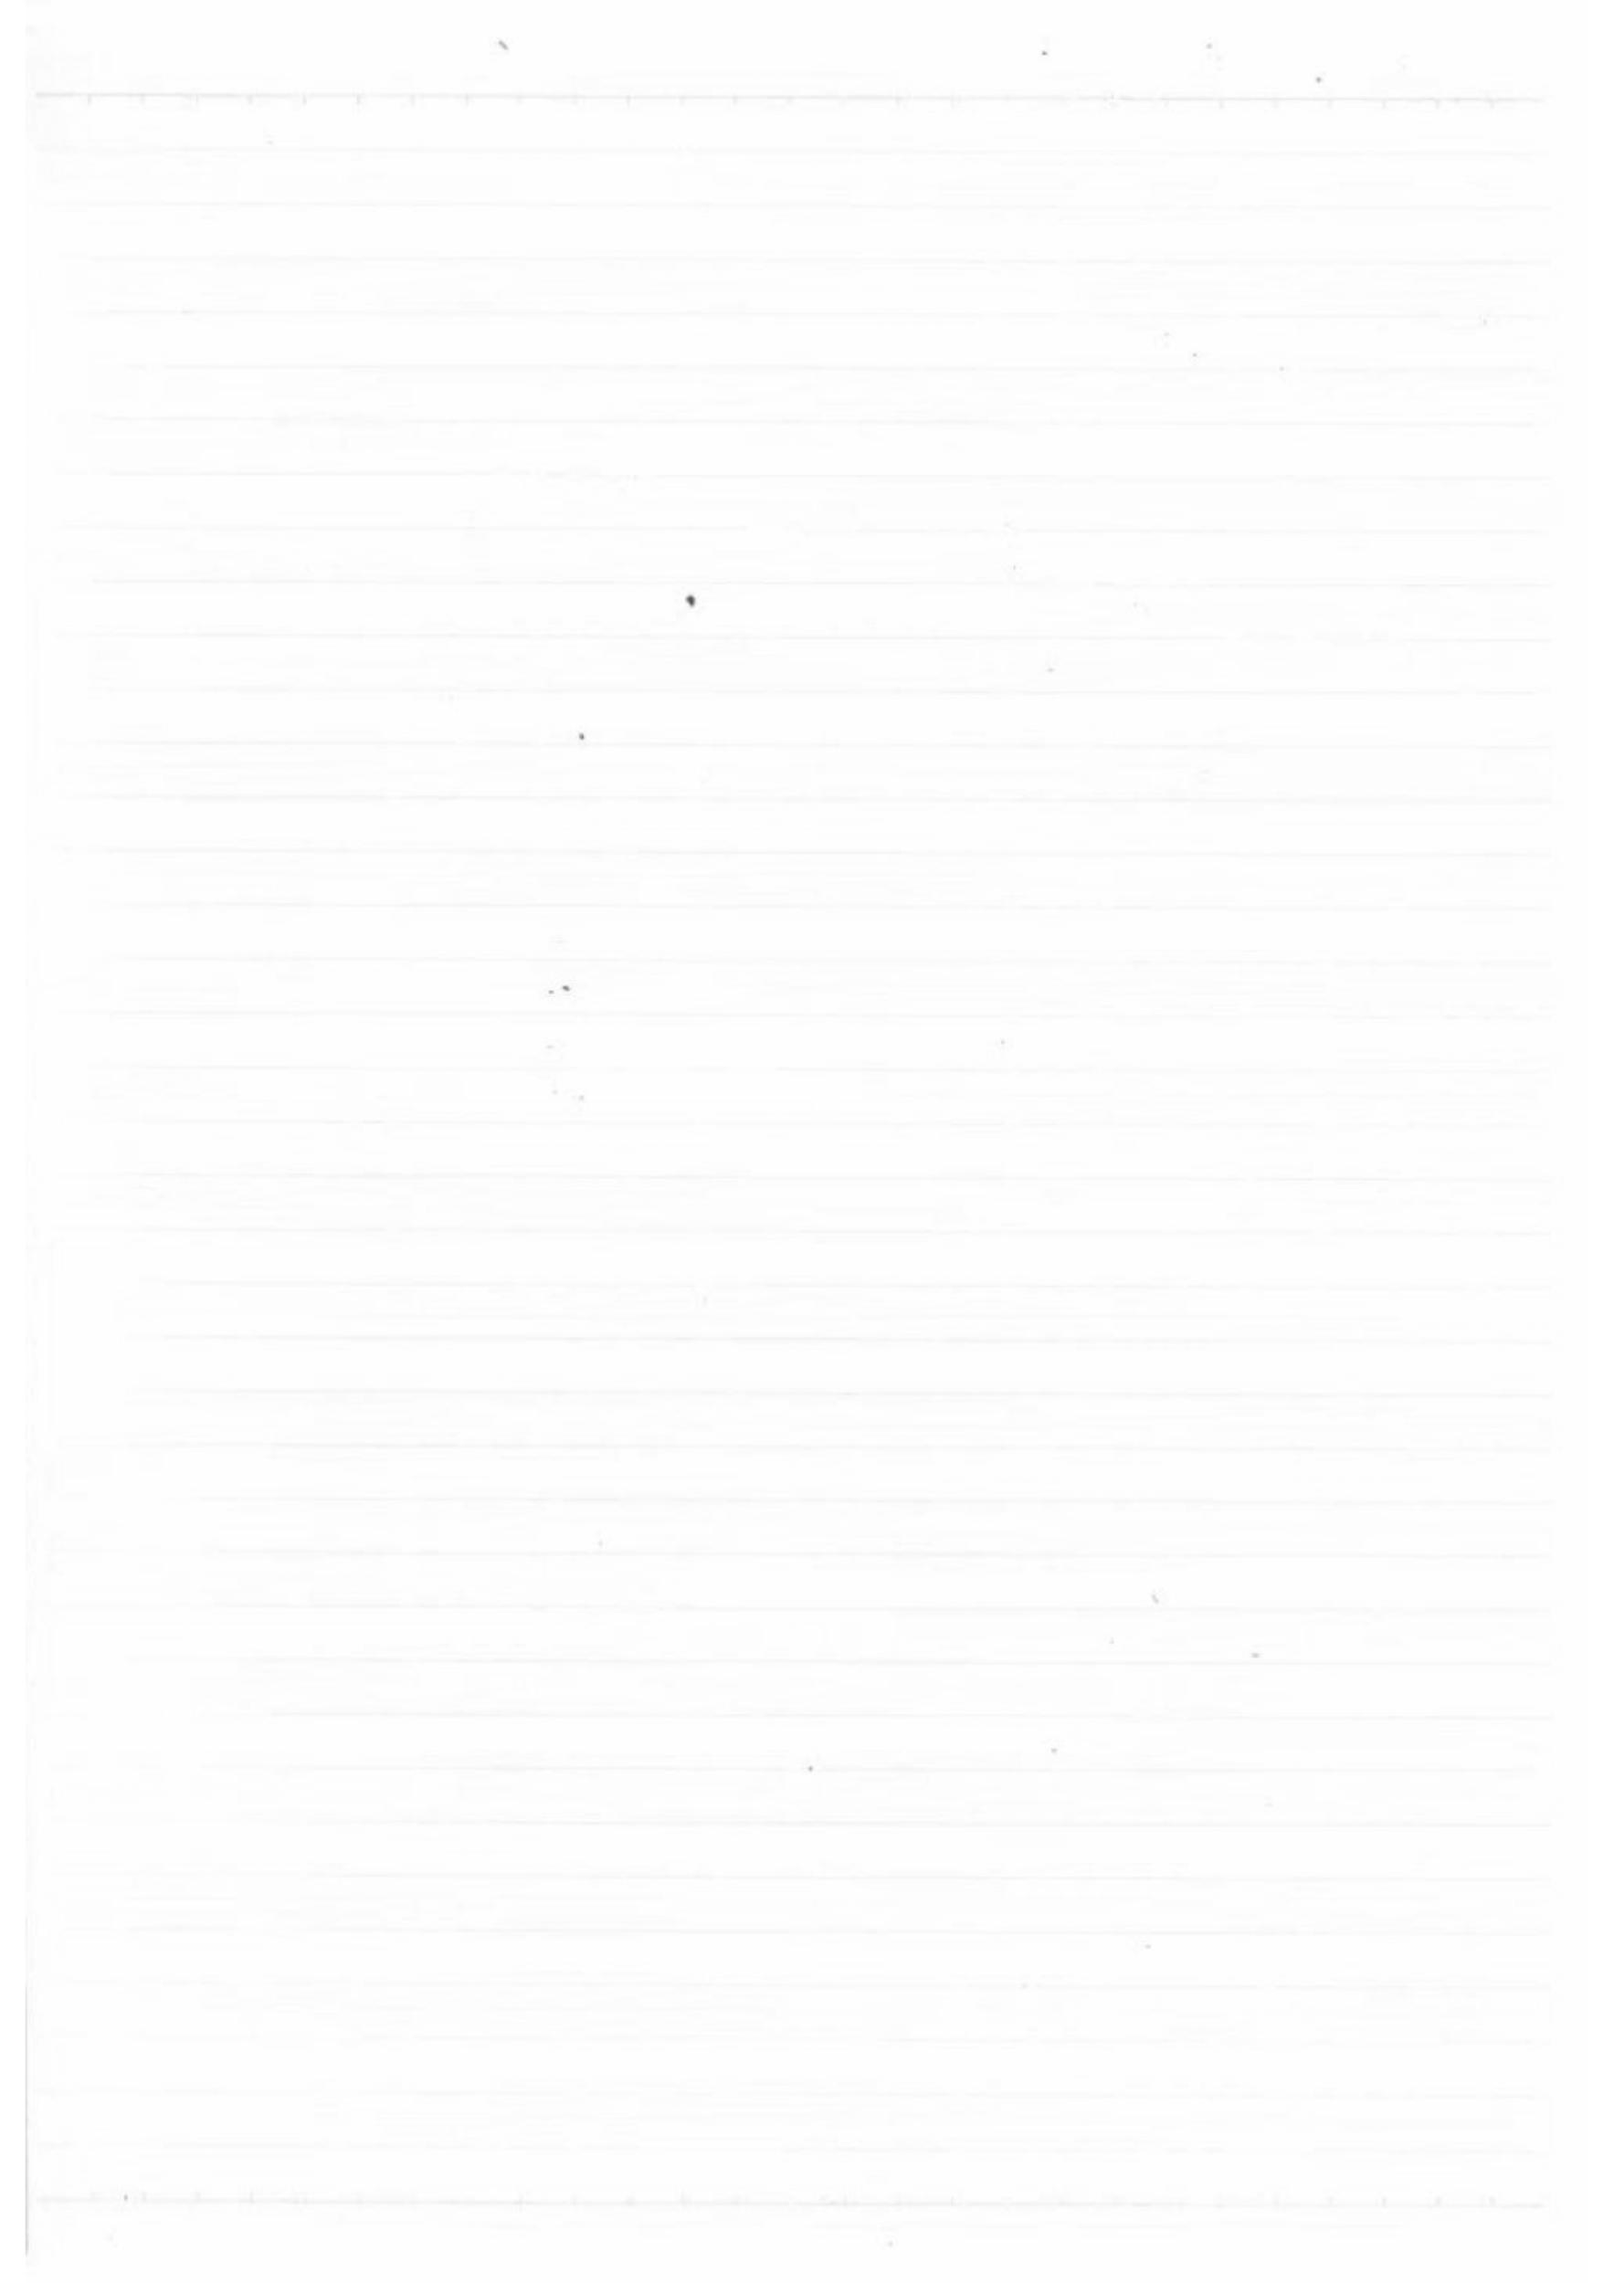
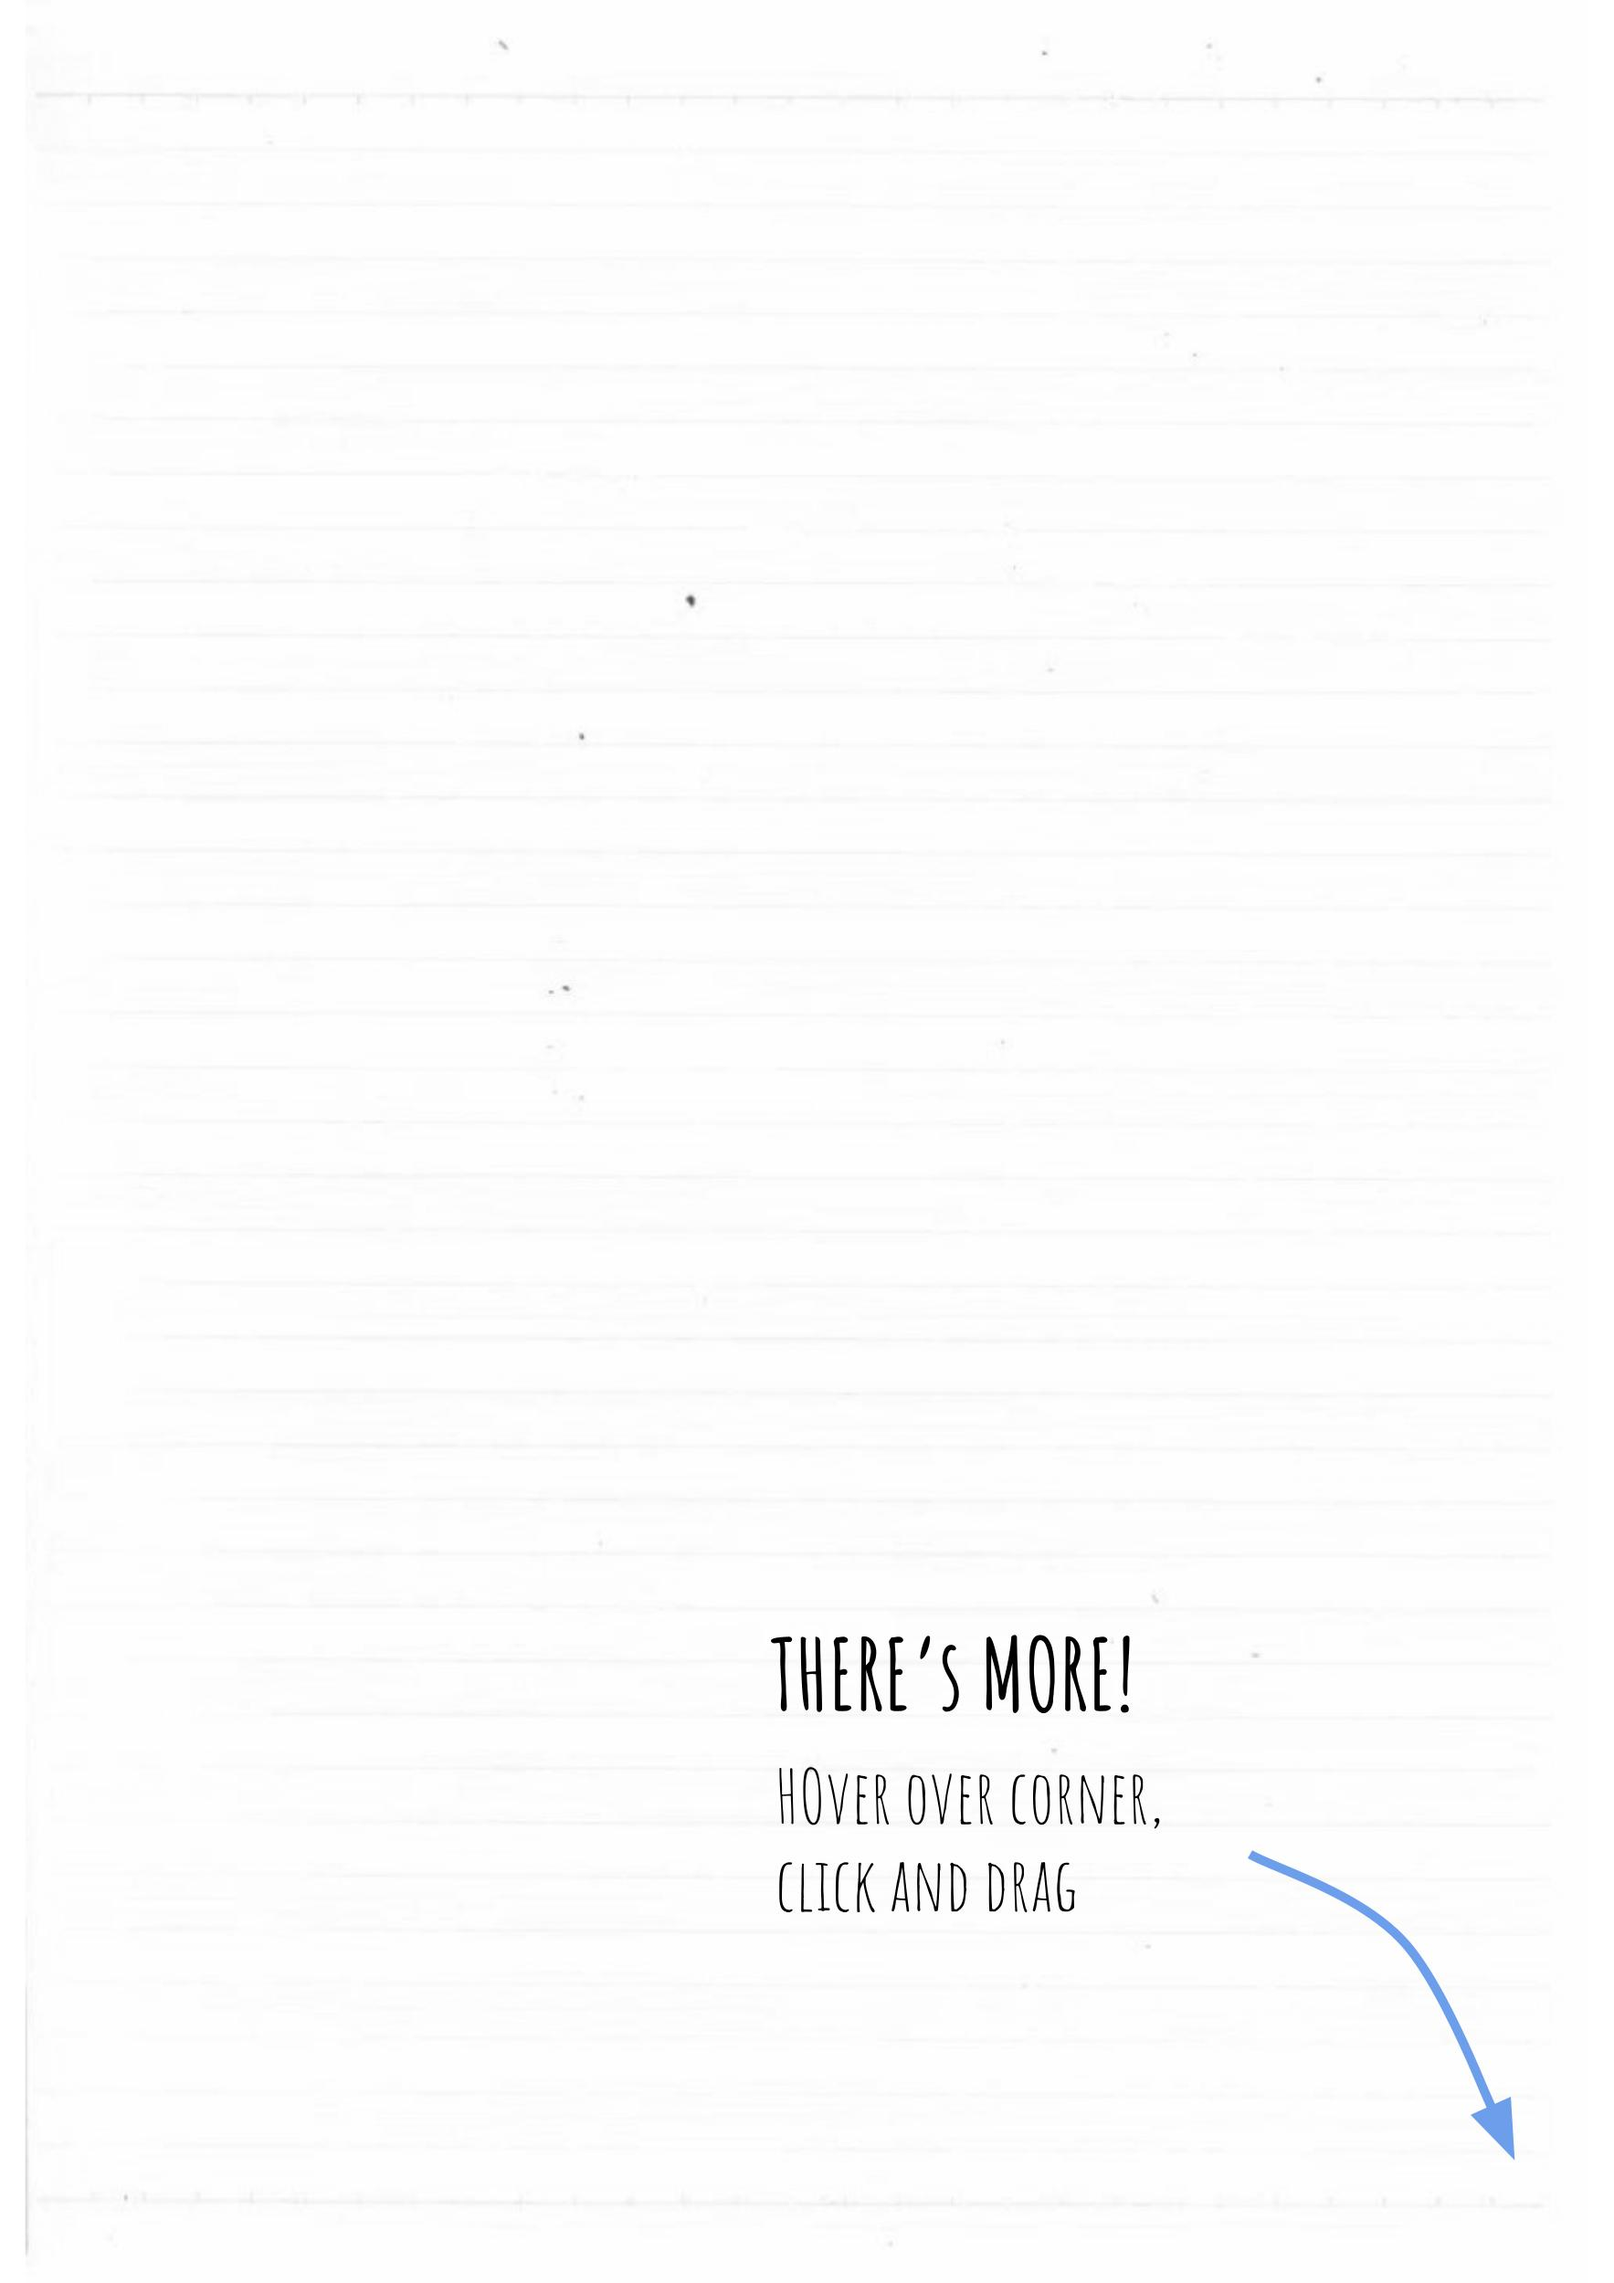
add directions on page

diff --git a/process.html b/process.html
@@ -32,7 +32,7 @@ title: Process
     <div style="background: url('assets/pages/23.jpg');"></div>
     <div style="background: url('assets/pages/24.jpg');"></div>
     <div style="background: url('assets/pages/blank.jpg');"></div>
-    <div style="background: url('assets/pages/cover.jpg');"></div>
+    <div style="background: url('assets/pages/back.jpg');"></div>
 
 
   </div>
